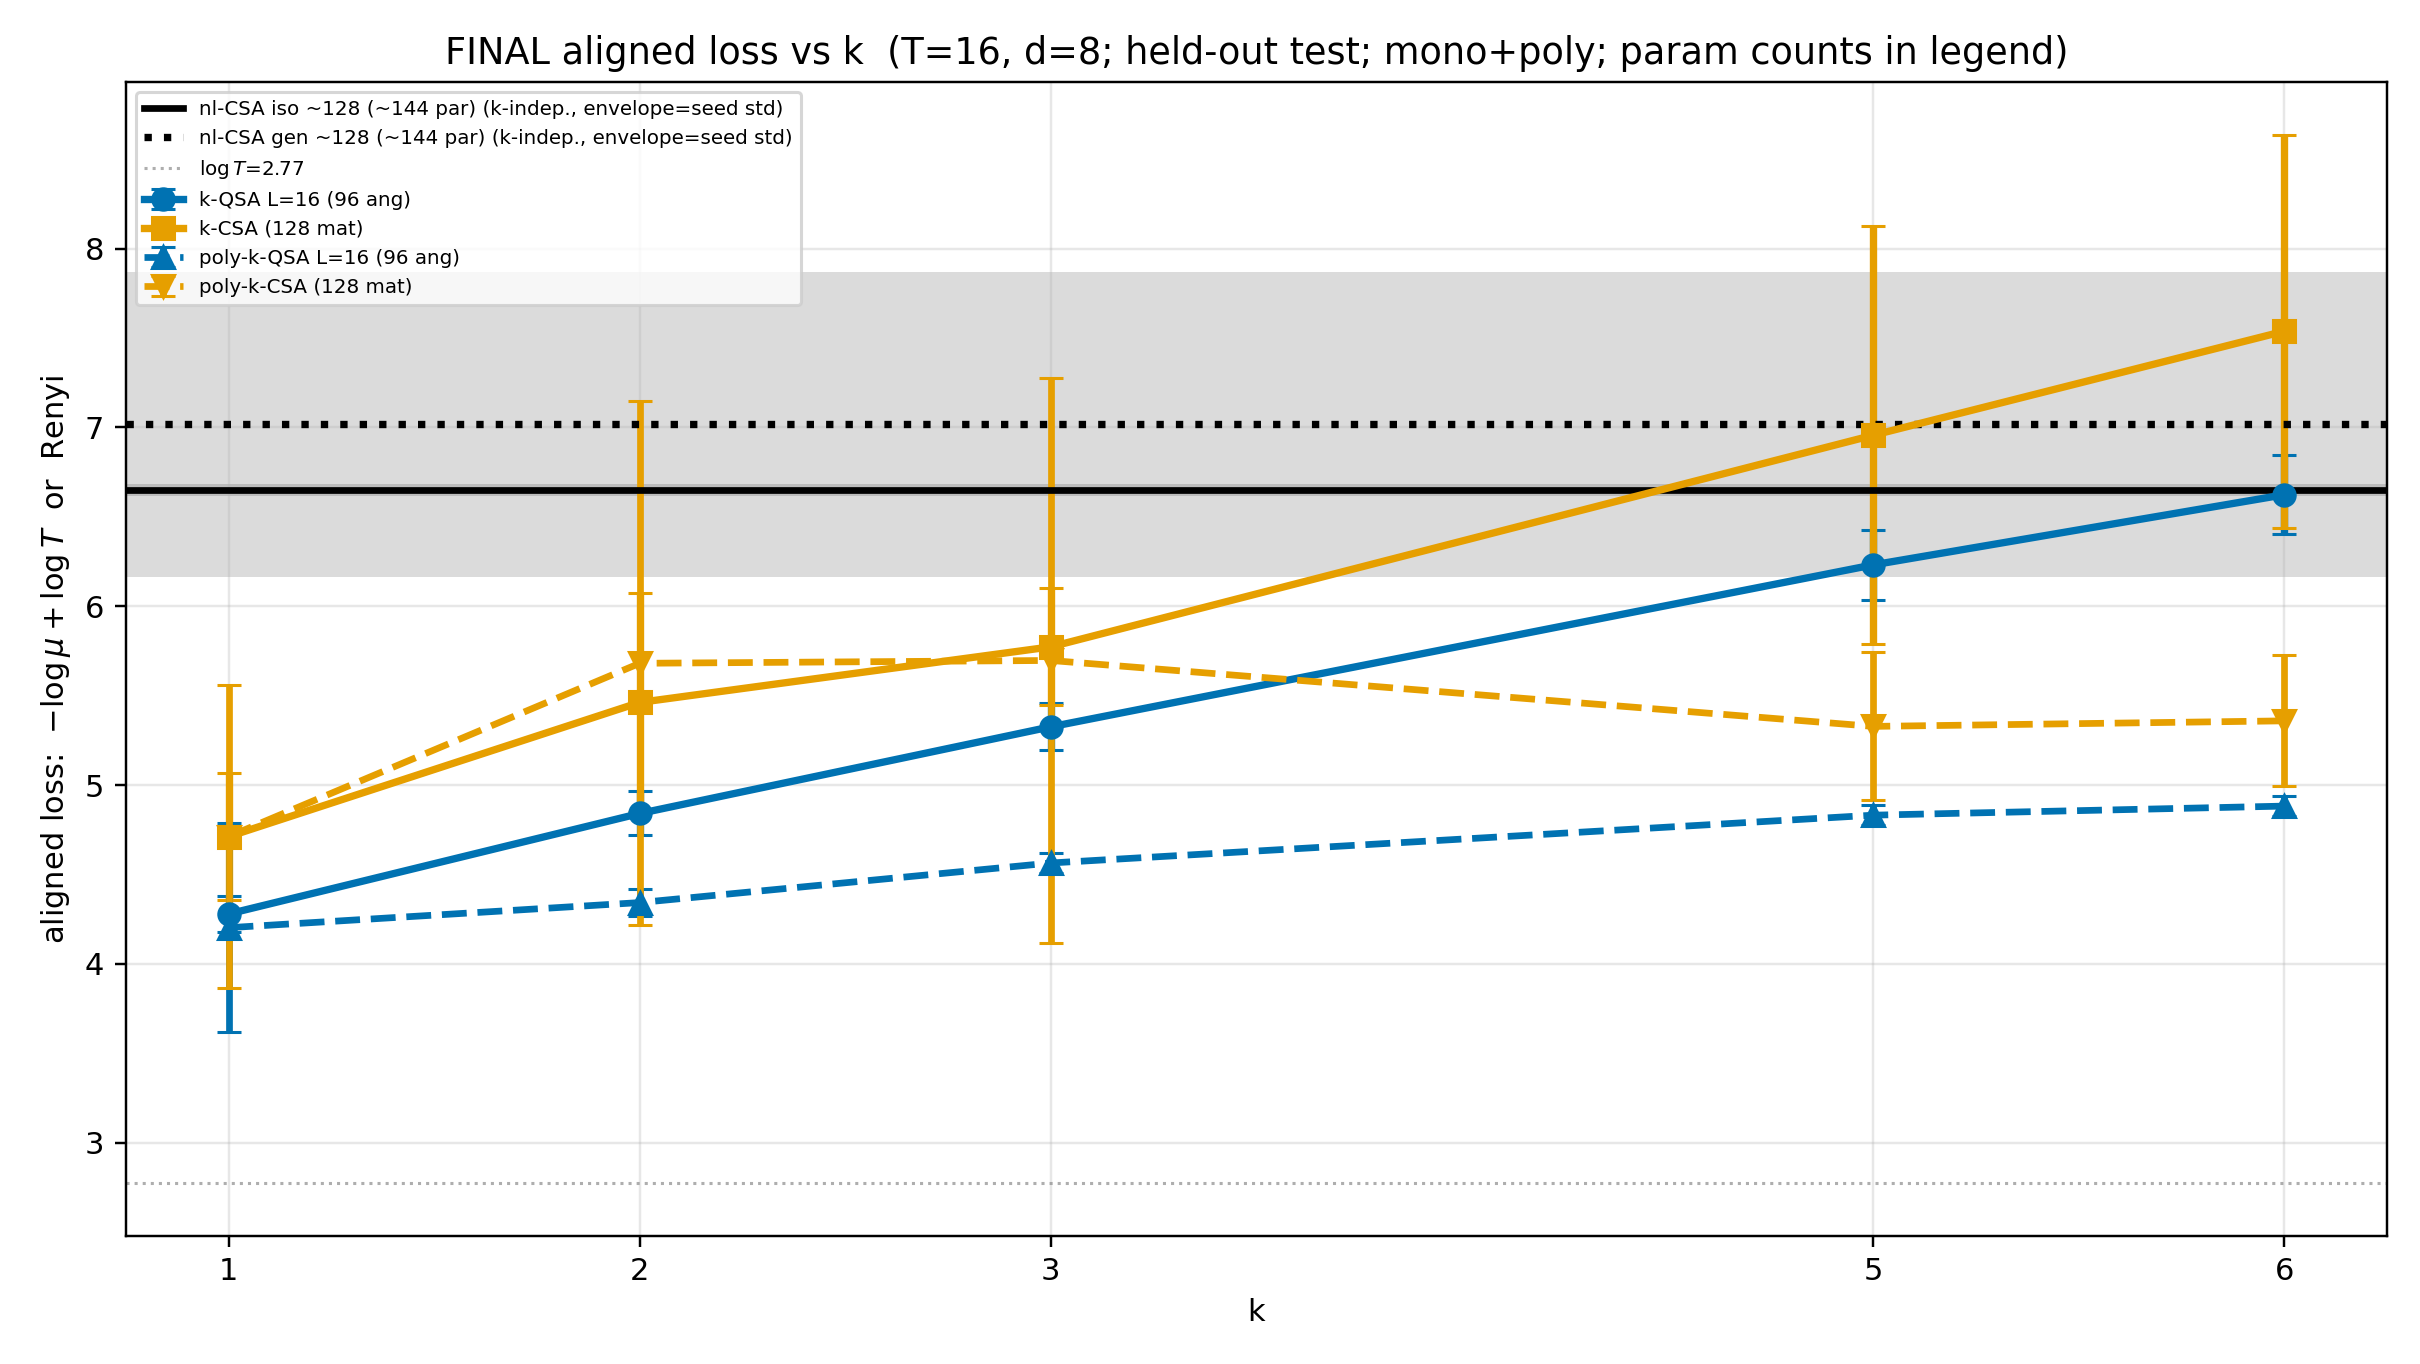
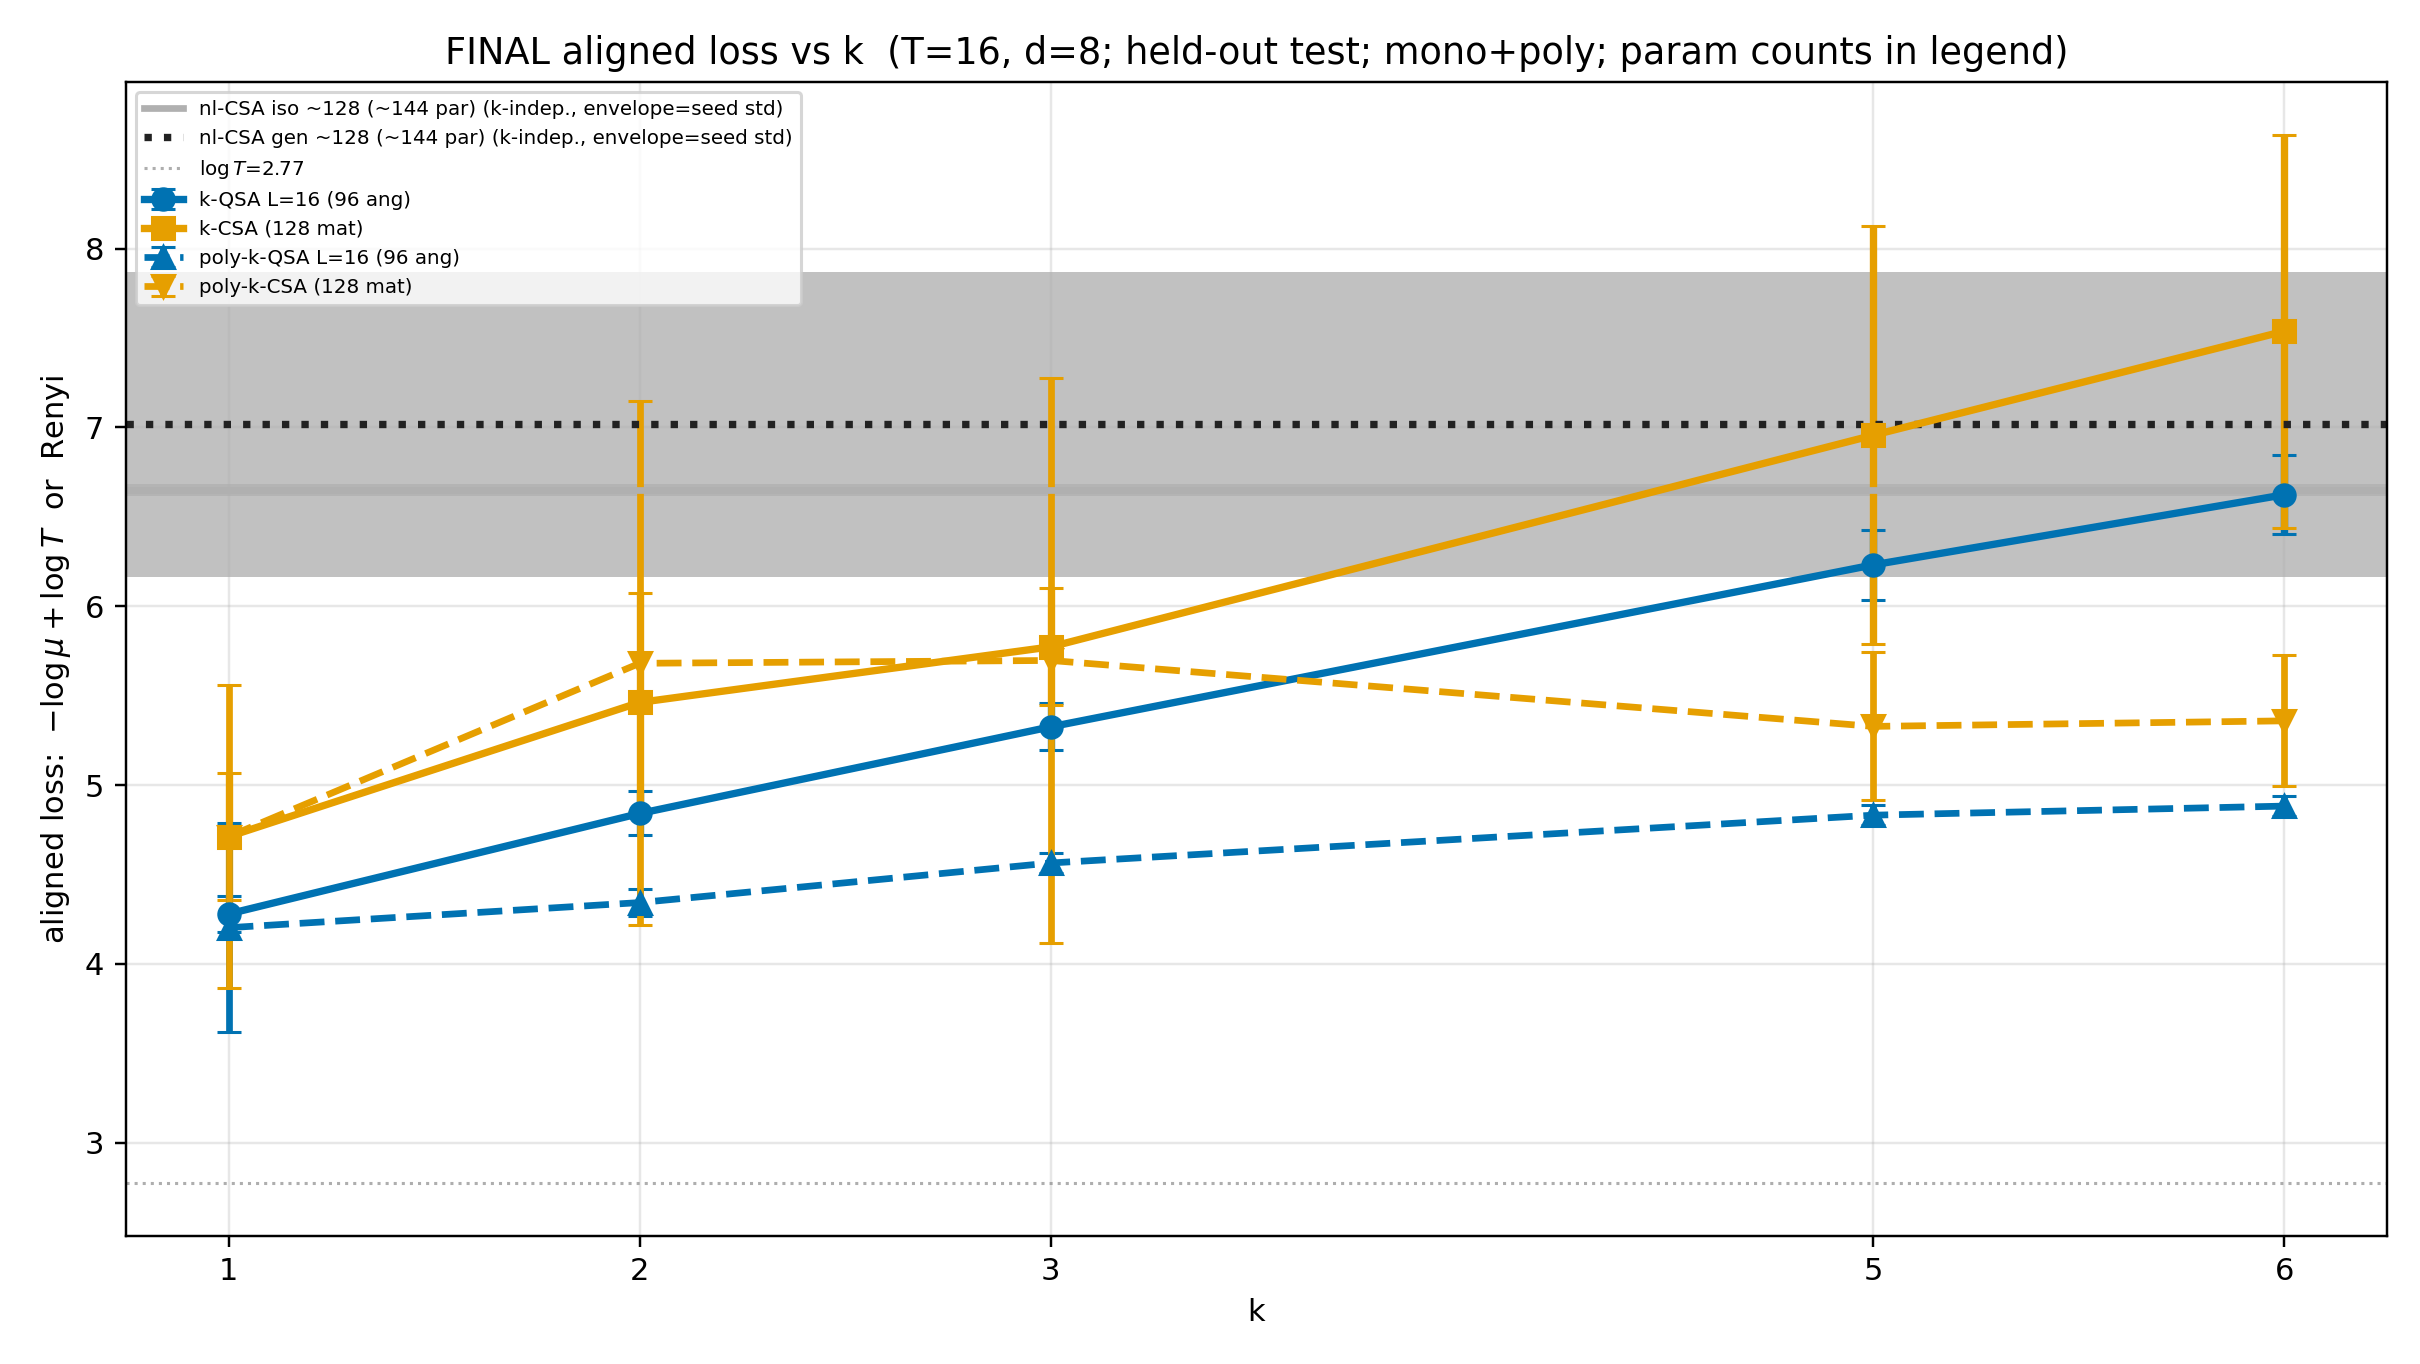
Flip log(mu/mu0) positive=improvement; distinguish nl-CSA envelopes.
iso envelope light gray, gen dark; ratio sign is L0-L_final.

Changed region(s): [[0.031, 0.1848, 0.9917, 0.4311]]

diff --git a/run_final_loss.py b/run_final_loss.py
@@ -53,9 +53,9 @@ STYLES: dict[str, dict[str, Any]] = {
     "k-CSA": dict(color="#E69F00", linestyle="-", marker="s", linewidth=2.4),
     "poly-k-QSA L=16": dict(color="#0072B2", linestyle="--", marker="^", linewidth=2.2),
     "poly-k-CSA": dict(color="#E69F00", linestyle="--", marker="v", linewidth=2.2),
-    "nl-CSA iso ~288": dict(color="#000000", linestyle="--", marker="D", linewidth=2.2),
-    "nl-CSA iso ~128": dict(color="#000000", linestyle="-", marker="s", linewidth=2.2),
-    "nl-CSA gen ~128": dict(color="#000000", linestyle=":", marker="x", linewidth=2.4),
+    "nl-CSA iso ~288": dict(color="#888888", linestyle="--", marker="D", linewidth=2.2),
+    "nl-CSA iso ~128": dict(color="#B0B0B0", linestyle="-", marker="s", linewidth=2.2),  # light envelope
+    "nl-CSA gen ~128": dict(color="#222222", linestyle=":", marker="x", linewidth=2.4),  # dark envelope
 }
 
 
@@ -382,7 +382,7 @@ def _pad_histories(runs: list[dict]) -> list[dict]:
 
 
 def _log_mu_ratio_per_run(r: dict, T: int) -> float:
-    """log(mu_0/mu) = L_final - L_init using aligned losses from training history."""
+    """log(mu/mu_0) = L_init - L_final (positive = improvement vs random init)."""
     L_final = _aligned_loss(r, T)
     hist = r.get("loss_history", [])
     if not hist:
@@ -391,7 +391,7 @@ def _log_mu_ratio_per_run(r: dict, T: int) -> float:
     L_init = float(hist[0])
     if not model.startswith("nl-CSA"):
         L_init += math.log(T)
-    return float(L_final - L_init)
+    return float(L_init - L_final)
 
 
 def _append_log_mu_ratio(agg: dict, runs: list[dict], T: int) -> None:
@@ -403,7 +403,7 @@ def _append_log_mu_ratio(agg: dict, runs: list[dict], T: int) -> None:
     if aligned.size:
         agg["aligned_init_mean"] = float(aligned[0])
     finals = np.array([_aligned_loss(r, T) for r in runs], dtype=float)
-    inits = finals - ratios
+    inits = finals + ratios  # ratio = L0 - L_final => L0 = L_final + ratio
     agg["aligned_init_per_seed"] = inits.tolist()
 
 
@@ -477,7 +477,9 @@ def plot_aligned_vs_k(
         mean = float(ref[mean_key])
         std = float(ref.get(std_key, 0.0))
         label = param_labels.get(name, name)
-        ax.axhspan(mean - std, mean + std, color=st["color"], alpha=0.14, linewidth=0, zorder=0)
+        # iso: lighter fill; gen: darker fill (same color as line)
+        fill_alpha = 0.22 if "iso" in name else 0.28
+        ax.axhspan(mean - std, mean + std, color=st["color"], alpha=fill_alpha, linewidth=0, zorder=0)
         ax.axhline(
             mean,
             color=st["color"],
@@ -540,7 +542,8 @@ def plot_log_mu_ratio_vs_k(
         mean = float(ref["log_mu_ratio_mean"])
         std = float(ref.get("log_mu_ratio_std", 0.0))
         label = param_labels.get(name, name)
-        ax.axhspan(mean - std, mean + std, color=st["color"], alpha=0.14, linewidth=0, zorder=0)
+        fill_alpha = 0.22 if "iso" in name else 0.28
+        ax.axhspan(mean - std, mean + std, color=st["color"], alpha=fill_alpha, linewidth=0, zorder=0)
         ax.axhline(
             mean,
             color=st["color"],
@@ -548,11 +551,11 @@ def plot_log_mu_ratio_vs_k(
             linewidth=st.get("linewidth", 2.0),
             label=f"{label} (k-indep., envelope=seed std)",
         )
-    ax.axhline(0.0, color="0.55", linestyle=":", linewidth=1.0, alpha=0.7, label=r"no improvement ($\log(\mu_0/\mu)=0$)")
+    ax.axhline(0.0, color="0.55", linestyle=":", linewidth=1.0, alpha=0.7, label=r"no improvement ($\log(\mu/\mu_0)=0$)")
     ax.set_xlabel("k")
-    ax.set_ylabel(r"$\log(\mu_0/\mu)$  (= $L_{\mathrm{final}} - L_0$; nl-CSA: Renyi $\Delta$)")
+    ax.set_ylabel(r"$\log(\mu/\mu_0)$  (= $L_0 - L_{\mathrm{final}}$; positive = improvement)")
     ax.set_title(
-        f"FINAL log($\\mu_0$/$\\mu$) vs k  (T={T}, d={d}; random-init baseline; param counts in legend)"
+        f"FINAL log($\\mu$/$\\mu_0$) vs k  (T={T}, d={d}; random-init baseline; param counts in legend)"
     )
     all_k = sorted({int(p["k"]) for p in mu_points})
     if all_k:
@@ -726,15 +729,14 @@ def _mu_point_from_agg(agg: dict, spec: dict, k: int, test: bool = False) -> dic
 
 
 def _backfill_log_mu_ratio_fields(agg: dict) -> None:
-    if "log_mu_ratio_mean" in agg:
-        return
+    """Backfill log(mu/mu_0)=L0-L_final from histories (always recompute sign)."""
     ratios: list[float] = []
     for hist in agg.get("seed_histories", []):
         if hist:
-            ratios.append(float(hist[-1]) - float(hist[0]))
+            ratios.append(float(hist[0]) - float(hist[-1]))  # L0 - L_final
     if not ratios and agg.get("aligned_history"):
         ah = agg["aligned_history"]
-        ratios = [float(ah[-1]) - float(ah[0])]
+        ratios = [float(ah[0]) - float(ah[-1])]
     if ratios:
         arr = np.array(ratios, dtype=float)
         agg["log_mu_ratio_mean"] = float(arr.mean())
